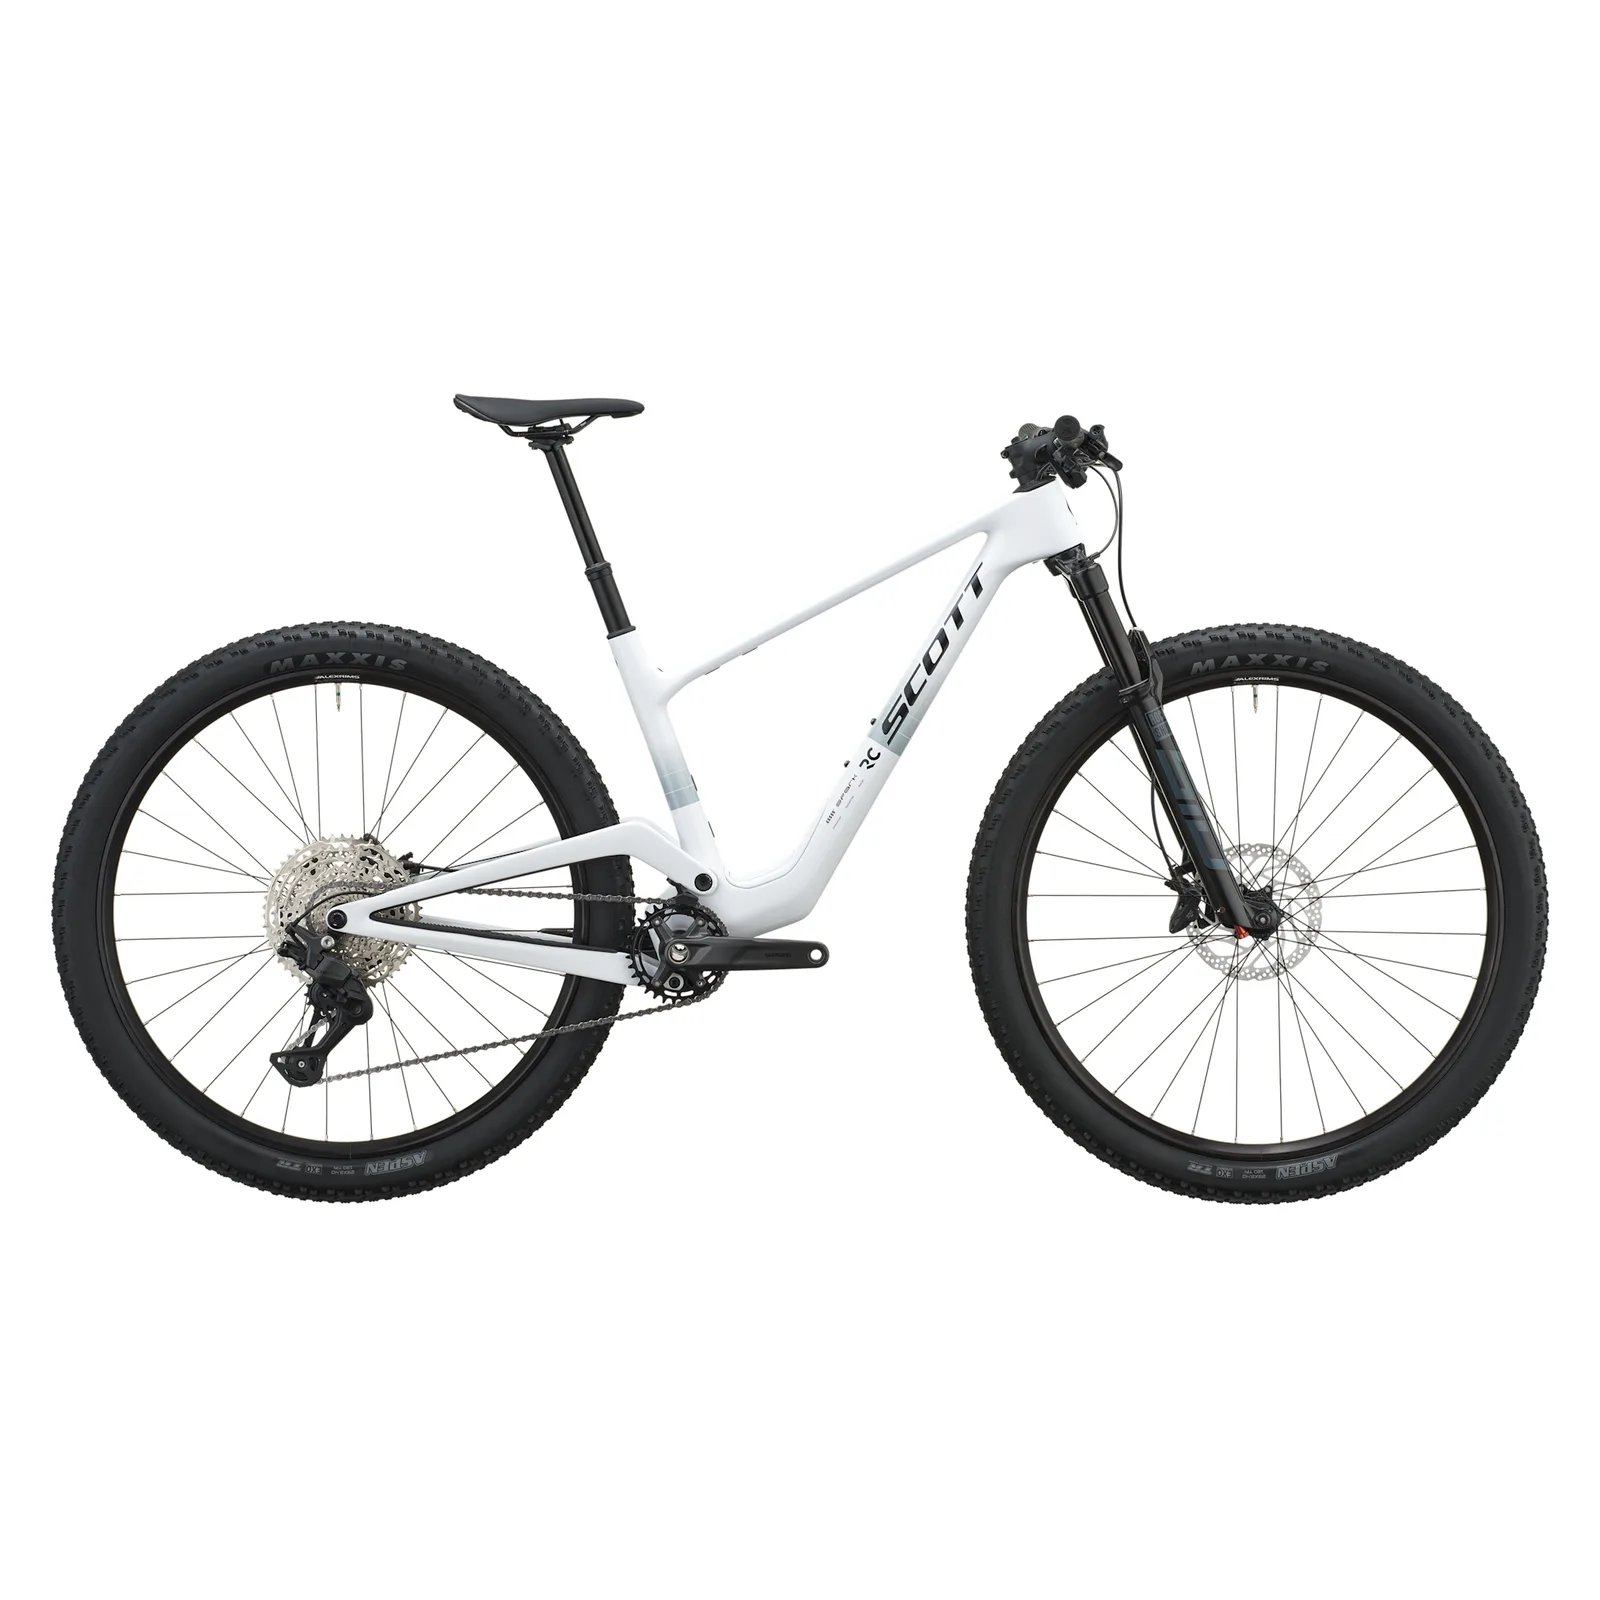
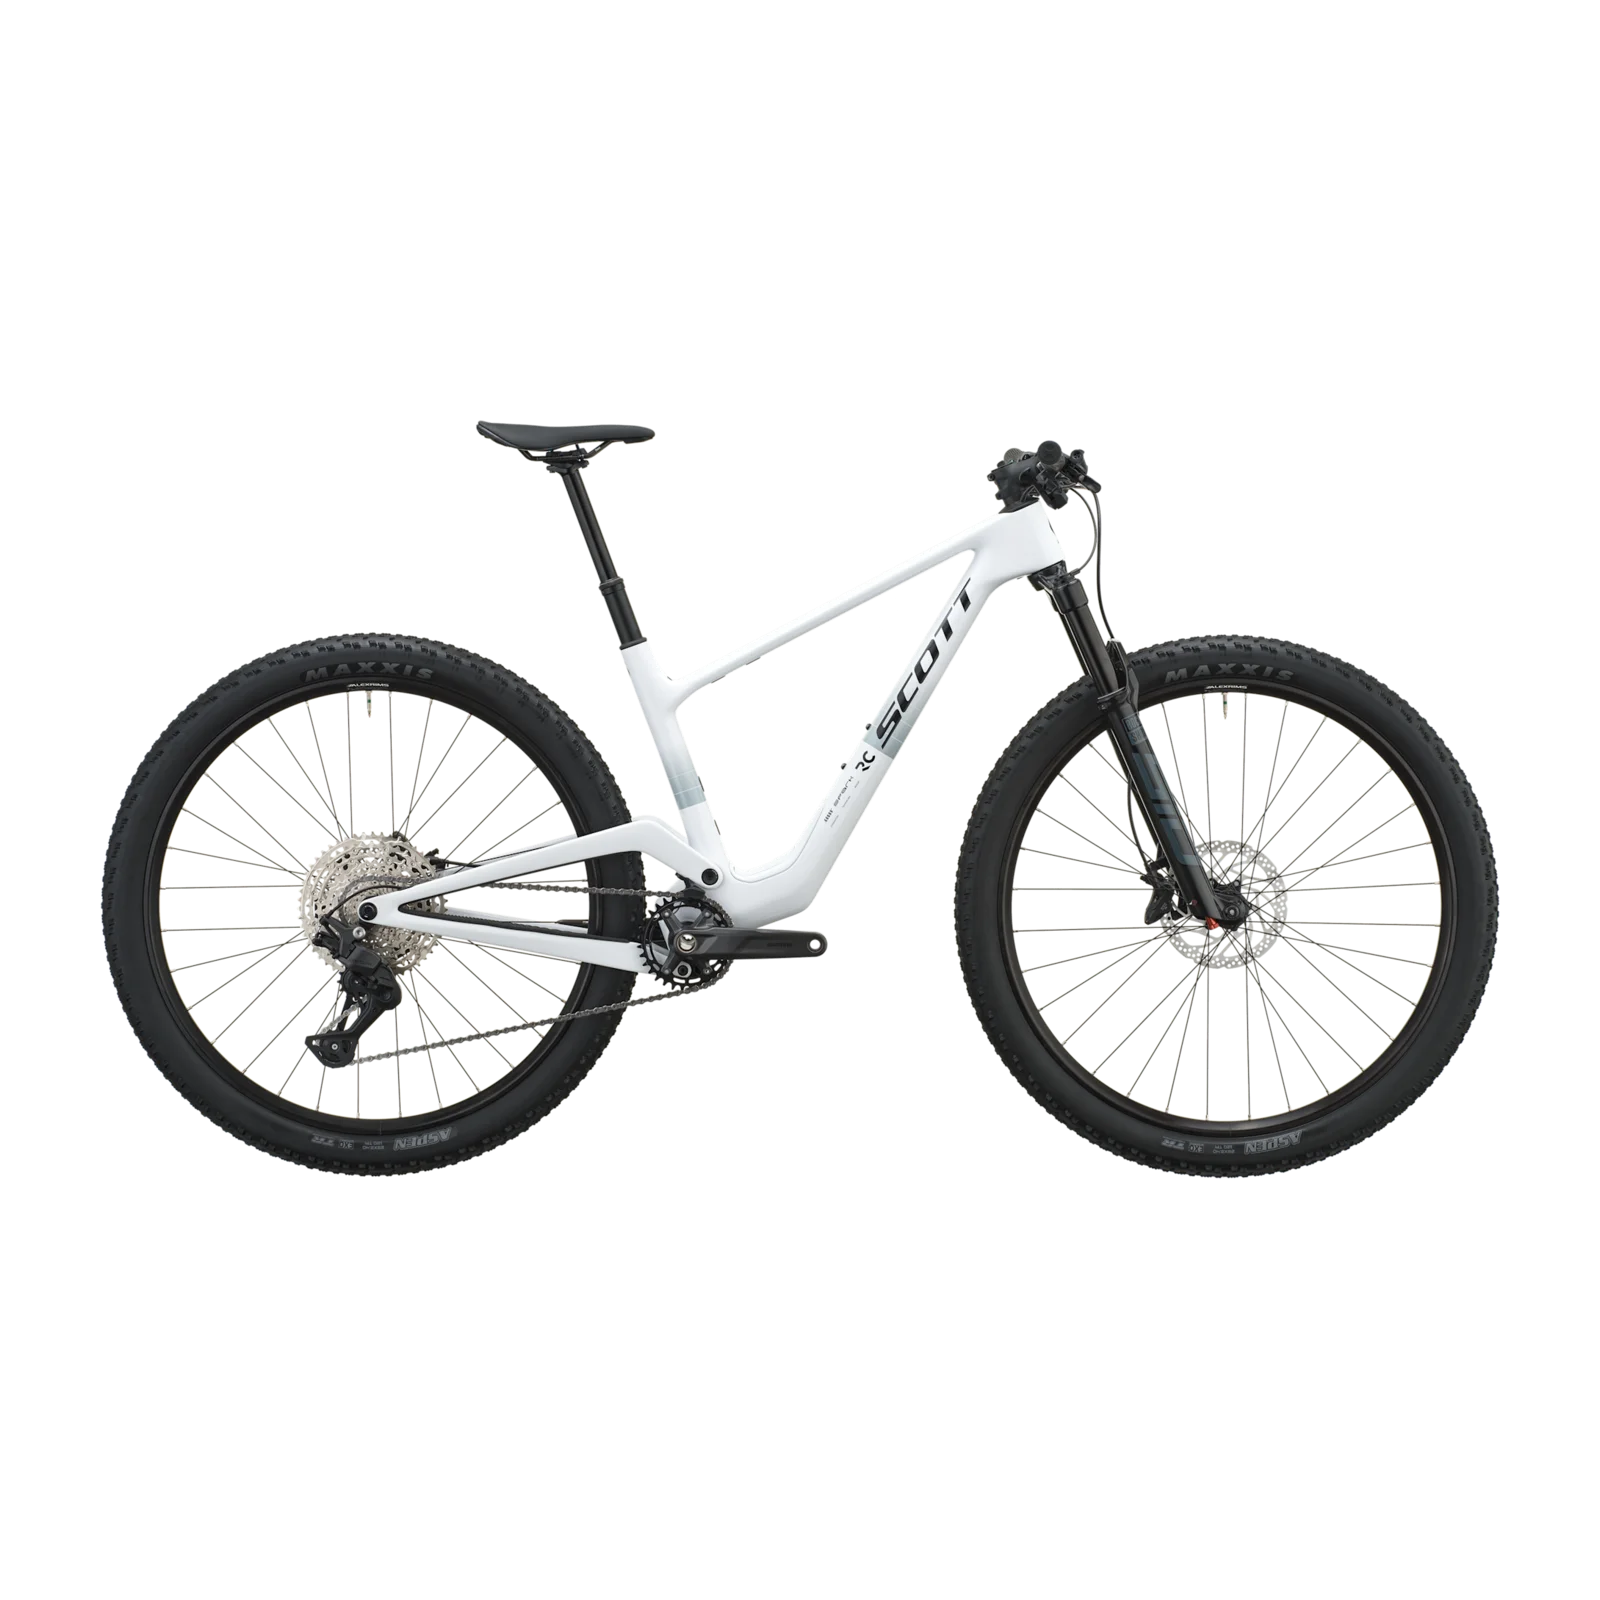
fix(scott-2027): průhledné fotky (fix rámeček v banneru) + oficiální CZK ceny a barvy
- Fotky Spark RC + Addict Gravel RC + Addict RC Pro hero přegenerovány
  jako PRŮHLEDNÉ (splynou s modrým gradientem karet jako ostatní modely,
  odstraněn bílý 'rámeček v banneru')
- Přesné CZK ceny z oficiálního Scott ceníku (priceCzk) na všech 8 Spark
  RC modelech: SL 337 990, WC EVO 298 990, WC 215 790, Team Issue 187 190,
  Pro 187 190, Expert 145 590, Team 119 590, Comp 93 590
- Opravené barvy dle ceníku (Pro Obsidian Purple, WC Cumulus White, Team
  Issue 3 barvy, Expert Tungsten Grey…) + vzorníky zvládají složené názvy
- formatVariantPrice helper (priceCzk má přednost); JSON-LD offers v CZK

Changed region(s): [[0.0312, 0.25, 0.5312, 0.75], [0.5312, 0.25, 0.9688, 0.75], [0.4688, 0.375, 0.5312, 0.4062]]

diff --git a/src/data/scott-2027.ts b/src/data/scott-2027.ts
@@ -40,6 +40,8 @@ export interface Scott2027Variant {
   weightKg: number | null;
   /** MSRP v EUR (Scott neposkytuje, brujulabike / euro-bike data) */
   priceEur: number | null;
+  /** Přesná CZ retailová cena vč. DPH (oficiální Scott ceník) — má přednost před priceEur. */
+  priceCzk?: number;
   /** Barevné varianty — max 4 hlavní */
   colors: string[];
   /** Lokální cesta k hlavní fotce v /public/media/scott-2027/ */
@@ -133,7 +135,8 @@ export const SCOTT_2027: Scott2027Platform[] = [
         fork: "RockShox SID Ultimate Flight Attendant 120",
         weightKg: 9.9,
         priceEur: 13699,
-        colors: ["Carbon Black"],
+        priceCzk: 337990,
+        colors: ["Piano Black / Carbon Black"],
         photo: "/media/scott-2027/spark-rc-sl.webp",
         sizes: MTB_SIZES,
         gallery: ["/media/scott-2027/spark-rc-sl.webp"],
@@ -157,7 +160,8 @@ export const SCOTT_2027: Scott2027Platform[] = [
         fork: "RockShox SID Ultimate Flight Attendant",
         weightKg: 10.5,
         priceEur: 12199,
-        colors: ["White"],
+        priceCzk: 298990,
+        colors: ["Rush White / Carbon Black"],
         photo: "/media/scott-2027/spark-rc-wc-evo.webp",
         sizes: MTB_SIZES,
         gallery: ["/media/scott-2027/spark-rc-wc-evo.webp"],
@@ -181,7 +185,8 @@ export const SCOTT_2027: Scott2027Platform[] = [
         fork: "RockShox SID Select+ RL3 Air, 120 mm",
         weightKg: 10.9,
         priceEur: 8699,
-        colors: ["Sunbeam Black"],
+        priceCzk: 215790,
+        colors: ["Cumulus White / Carbon Black"],
         photo: "/media/scott-2027/spark-rc-wc.webp",
         sizes: MTB_SIZES,
         gallery: ["/media/scott-2027/spark-rc-wc.webp"],
@@ -205,7 +210,8 @@ export const SCOTT_2027: Scott2027Platform[] = [
         fork: "Fox 34 SL Factory Kashima",
         weightKg: 10.9,
         priceEur: 7599,
-        colors: ["Azure White"],
+        priceCzk: 187190,
+        colors: ["Obsidian Purple / Carbon Black"],
         photo: "/media/scott-2027/spark-rc-pro.webp",
         sizes: MTB_SIZES,
         gallery: ["/media/scott-2027/spark-rc-pro.webp"],
@@ -229,7 +235,8 @@ export const SCOTT_2027: Scott2027Platform[] = [
         fork: "RockShox SID Flight Attendant (electronic), 120 mm",
         weightKg: null,
         priceEur: null,
-        colors: ["Carbon Black"],
+        priceCzk: 187190,
+        colors: ["Carbon Black", "Dorado Grey", "Ultra Blue"],
         photo: "/media/scott-2027/spark-rc-team-issue.webp",
         sizes: MTB_SIZES,
         gallery: ["/media/scott-2027/spark-rc-team-issue.webp"],
@@ -253,7 +260,8 @@ export const SCOTT_2027: Scott2027Platform[] = [
         fork: "FOX 34 SL Factory Grip SL Kashima, 120 mm",
         weightKg: null,
         priceEur: null,
-        colors: ["Raw Grey"],
+        priceCzk: 145590,
+        colors: ["Tungsten Grey"],
         photo: "/media/scott-2027/spark-rc-expert.webp",
         sizes: MTB_SIZES,
         gallery: ["/media/scott-2027/spark-rc-expert.webp"],
@@ -277,7 +285,8 @@ export const SCOTT_2027: Scott2027Platform[] = [
         fork: "RockShox SID 3P Air",
         weightKg: 12.5,
         priceEur: 4799,
-        colors: ["Carbon Black", "Whisper Grey", "Spectral Black", "Cream Green"],
+        priceCzk: 119590,
+        colors: ["Spectral Black", "Cream Green / Carbon Black"],
         photo: "/media/scott-2027/spark-rc-team.webp",
         sizes: MTB_SIZES,
         gallery: ["/media/scott-2027/spark-rc-team.webp"],
@@ -301,6 +310,7 @@ export const SCOTT_2027: Scott2027Platform[] = [
         fork: "RockShox SID 3P Air / FOX 32 Rhythm",
         weightKg: 12.8,
         priceEur: 3799,
+        priceCzk: 93590,
         colors: ["Cumulus White"],
         photo: "/media/scott-2027/spark-rc-comp.webp",
         sizes: MTB_SIZES,
@@ -814,4 +824,15 @@ export function eurToCzk(eur: number | null): string {
   if (eur === null) return "Cena na poptávku";
   const czk = Math.round((eur * 25) / 1000) * 1000;
   return `od ${czk.toLocaleString("cs-CZ").replace(/,/g, " ")} Kč`;
+}
+
+/**
+ * Cena varianty pro zobrazení. Preferuje přesnou CZ cenu z oficiálního
+ * Scott ceníku (priceCzk), jinak fallback na orientační přepočet z EUR.
+ */
+export function formatVariantPrice(v: Scott2027Variant): string {
+  if (v.priceCzk != null) {
+    return `${v.priceCzk.toLocaleString("cs-CZ").replace(/,/g, " ")} Kč`;
+  }
+  return eurToCzk(v.priceEur);
 }

diff --git a/src/components/scott-2027/VariantDetailPage.tsx b/src/components/scott-2027/VariantDetailPage.tsx
@@ -5,7 +5,7 @@ import Image from "next/image";
 import { useState } from "react";
 import BikeInquiryForm from "./BikeInquiryForm";
 import {
-  eurToCzk,
+  formatVariantPrice,
   type Scott2027Platform,
   type Scott2027Variant,
 } from "@/data/scott-2027";
@@ -18,18 +18,27 @@ interface Props {
 // Mapování názvů barev Scott → hex pro vizuální vzorník na detailu modelu.
 const COLOR_HEX: Record<string, string> = {
   "Carbon Black": "#1b1b1e",
+  "Piano Black": "#16161a",
   "Spectral Black": "#242529",
   "Sunbeam Black": "#2b2b2d",
+  "Obsidian Purple": "#39304a",
   White: "#f1f2f4",
+  "Rush White": "#eef1f5",
   "Azure White": "#e9eef4",
   "Cumulus White": "#eef1f5",
   "Whisper Grey": "#b7bcc3",
+  "Dorado Grey": "#9c968a",
+  "Tungsten Grey": "#7d8085",
   "Raw Grey": "#888b90",
+  "Ultra Blue": "#2f5aa8",
   "Cream Green": "#c9d1a6",
   Sage: "#b9c3a3",
 };
 function colorHex(name: string): string {
-  return COLOR_HEX[name] ?? "#c4c9d4";
+  if (COLOR_HEX[name]) return COLOR_HEX[name];
+  // Složené názvy typu „Cream Green / Carbon Black" — vezmi první část.
+  const first = name.split("/")[0].trim();
+  return COLOR_HEX[first] ?? "#c4c9d4";
 }
 
 export default function VariantDetailPage({ platform, variant }: Props) {
@@ -160,12 +169,12 @@ export default function VariantDetailPage({ platform, variant }: Props) {
 
           <div className="bg-[#1a1a2e] text-white rounded-2xl p-5 mb-5">
             <div className="text-xs font-bold uppercase tracking-wider text-[#7AA3FF] mb-1">
-              Orientační cena
+              {variant.priceCzk != null ? "Cena vč. DPH" : "Orientační cena"}
             </div>
-            <div className="text-2xl font-black mb-1">{eurToCzk(variant.priceEur)}</div>
+            <div className="text-2xl font-black mb-1">{formatVariantPrice(variant)}</div>
             {variant.priceEur && (
               <div className="text-xs text-white/60 mb-3">
-                € {variant.priceEur.toLocaleString("cs-CZ")} MSRP · kurz orientačně 25 Kč/€
+                Doporučená MSRP € {variant.priceEur.toLocaleString("cs-CZ")}
               </div>
             )}
             <p className="text-xs text-white/70 leading-snug">
@@ -337,7 +346,7 @@ export default function VariantDetailPage({ platform, variant }: Props) {
                   <div className="text-sm font-black text-[#1a1a2e] mb-0.5">{v.name}</div>
                   <div className="text-[11px] text-[#5A6480] line-clamp-1">{v.groupset}</div>
                   <div className="text-xs font-bold text-[#3B7CF4] mt-1">
-                    {eurToCzk(v.priceEur)}
+                    {formatVariantPrice(v)}
                   </div>
                 </div>
               </Link>

diff --git a/src/components/scott-2027/ScottComparison.tsx b/src/components/scott-2027/ScottComparison.tsx
@@ -5,7 +5,7 @@ import Image from "next/image";
 import Link from "next/link";
 import {
   SCOTT_2027,
-  eurToCzk,
+  formatVariantPrice,
   statusLabel,
   type Scott2027Platform,
   type Scott2027Variant,
@@ -113,7 +113,7 @@ function VariantColumn({ v, onChange, label }: ColumnProps) {
                 ? "Silnice"
                 : "Gravel"}
           </div>
-          <div className="text-lg font-black text-[#1a1a2e]">{eurToCzk(v.variant.priceEur)}</div>
+          <div className="text-lg font-black text-[#1a1a2e]">{formatVariantPrice(v.variant)}</div>
           {v.variant.priceEur && (
             <div className="text-[11px] text-[#5A6480]">
               € {v.variant.priceEur.toLocaleString("cs-CZ")} MSRP
@@ -248,8 +248,8 @@ export default function ScottComparison({
             })}
             <tr className="bg-[#EAF1FE]">
               <td className="p-3 md:p-4 font-black text-[#1a1a2e]">Cena (orientačně)</td>
-              <td className="p-3 md:p-4 font-black text-[#1a1a2e]">{eurToCzk(a?.variant.priceEur ?? null)}</td>
-              <td className="p-3 md:p-4 font-black text-[#1a1a2e]">{eurToCzk(b?.variant.priceEur ?? null)}</td>
+              <td className="p-3 md:p-4 font-black text-[#1a1a2e]">{a ? formatVariantPrice(a.variant) : "—"}</td>
+              <td className="p-3 md:p-4 font-black text-[#1a1a2e]">{b ? formatVariantPrice(b.variant) : "—"}</td>
             </tr>
           </tbody>
         </table>

diff --git a/src/components/scott-2027/ScottPlatformPage.tsx b/src/components/scott-2027/ScottPlatformPage.tsx
@@ -1,7 +1,7 @@
 import Link from "next/link";
 import Image from "next/image";
 import BikeInquiryForm from "./BikeInquiryForm";
-import { eurToCzk, statusLabel, type Scott2027Platform } from "@/data/scott-2027";
+import { formatVariantPrice, statusLabel, type Scott2027Platform } from "@/data/scott-2027";
 
 const STATUS_NOTE: Record<Scott2027Platform["status"], string> = {
   launched:
@@ -146,7 +146,7 @@ export default function ScottPlatformPage({ platform }: { platform: Scott2027Pla
                 <div className="flex items-center justify-between gap-3 pt-2 border-t border-[#E2E6F3]">
                   <div>
                     <div className="text-xs text-[#5A6480]">Orientačně</div>
-                    <div className="text-lg font-black text-[#1a1a2e]">{eurToCzk(v.priceEur)}</div>
+                    <div className="text-lg font-black text-[#1a1a2e]">{formatVariantPrice(v)}</div>
                     {v.priceEur && (
                       <div className="text-[11px] text-[#5A6480]">€ {v.priceEur.toLocaleString("cs-CZ")} MSRP</div>
                     )}

diff --git a/src/components/articles/ScottSparkRC2027.tsx b/src/components/articles/ScottSparkRC2027.tsx
@@ -3,7 +3,7 @@ import Image from "next/image";
 import SparkStickyCTA from "./SparkStickyCTA";
 import SparkUrgencyBanner from "./SparkUrgencyBanner";
 import PreorderCounter from "@/components/preorders/PreorderCounter";
-import { getPlatformBySlug, eurToCzk } from "@/data/scott-2027";
+import { getPlatformBySlug, formatVariantPrice } from "@/data/scott-2027";
 
 /**
  * Přehled modelů Spark RC 2027 s prokliky na detailní stránku každé varianty
@@ -36,7 +36,7 @@ function SparkModelGrid() {
             </div>
             <div className="text-xs text-[#5A6480] mt-0.5 line-clamp-2">{v.groupset}</div>
             <div className="flex items-center justify-between mt-1.5">
-              <span className="text-sm font-bold text-[#1a1a2e]">{eurToCzk(v.priceEur)}</span>
+              <span className="text-sm font-bold text-[#1a1a2e]">{formatVariantPrice(v)}</span>
               <span className="text-xs font-bold text-[#3B7CF4]">Detail →</span>
             </div>
           </div>

diff --git a/src/app/clanky/scott-2027/[slug]/[variant]/page.tsx b/src/app/clanky/scott-2027/[slug]/[variant]/page.tsx
@@ -53,13 +53,13 @@ export default async function VariantRoute({
     description: `${platform.claim} ${v.componentry?.frame ?? ""}`,
     brand: { "@type": "Brand", name: "Scott" },
     sku: `scott-${v.slug}-2027`,
-    // Cenu do schématu dáváme jen když je známá — jinak by price:0 mátlo Google.
-    ...(v.priceEur != null && {
+    // Cenu do schématu dáváme jen když je známá — preferujeme přesnou CZK.
+    ...((v.priceCzk != null || v.priceEur != null) && {
       offers: {
         "@type": "Offer",
         url: `https://www.100dola.com/clanky/scott-2027/${slug}/${variant}#inquiry`,
-        priceCurrency: "EUR",
-        price: v.priceEur,
+        priceCurrency: v.priceCzk != null ? "CZK" : "EUR",
+        price: v.priceCzk ?? v.priceEur,
         availability: "https://schema.org/PreOrder",
         itemCondition: "https://schema.org/NewCondition",
         seller: { "@type": "Organization", name: "100dola sport" },

diff --git a/src/app/clanky/scott-2027/[slug]/page.tsx b/src/app/clanky/scott-2027/[slug]/page.tsx
@@ -49,13 +49,13 @@ export default async function ScottPlatformRoute({
     description: `${platform.claim} ${v.name}: ${v.groupset}, ${v.wheels}.`,
     brand: { "@type": "Brand", name: "Scott" },
     sku: `scott-${v.slug}`,
-    // Cenu do offers dáváme jen když je známá — jinak by price:0 mátlo Google.
-    ...(v.priceEur != null && {
+    // Cenu do offers dáváme jen když je známá — preferujeme přesnou CZK.
+    ...((v.priceCzk != null || v.priceEur != null) && {
       offers: {
         "@type": "Offer",
         url: `https://www.100dola.com/clanky/scott-2027/${slug}/${v.slug}`,
-        priceCurrency: "EUR",
-        price: v.priceEur,
+        priceCurrency: v.priceCzk != null ? "CZK" : "EUR",
+        price: v.priceCzk ?? v.priceEur,
         availability: "https://schema.org/PreOrder",
         itemCondition: "https://schema.org/NewCondition",
         seller: { "@type": "Organization", name: "100dola sport" },
